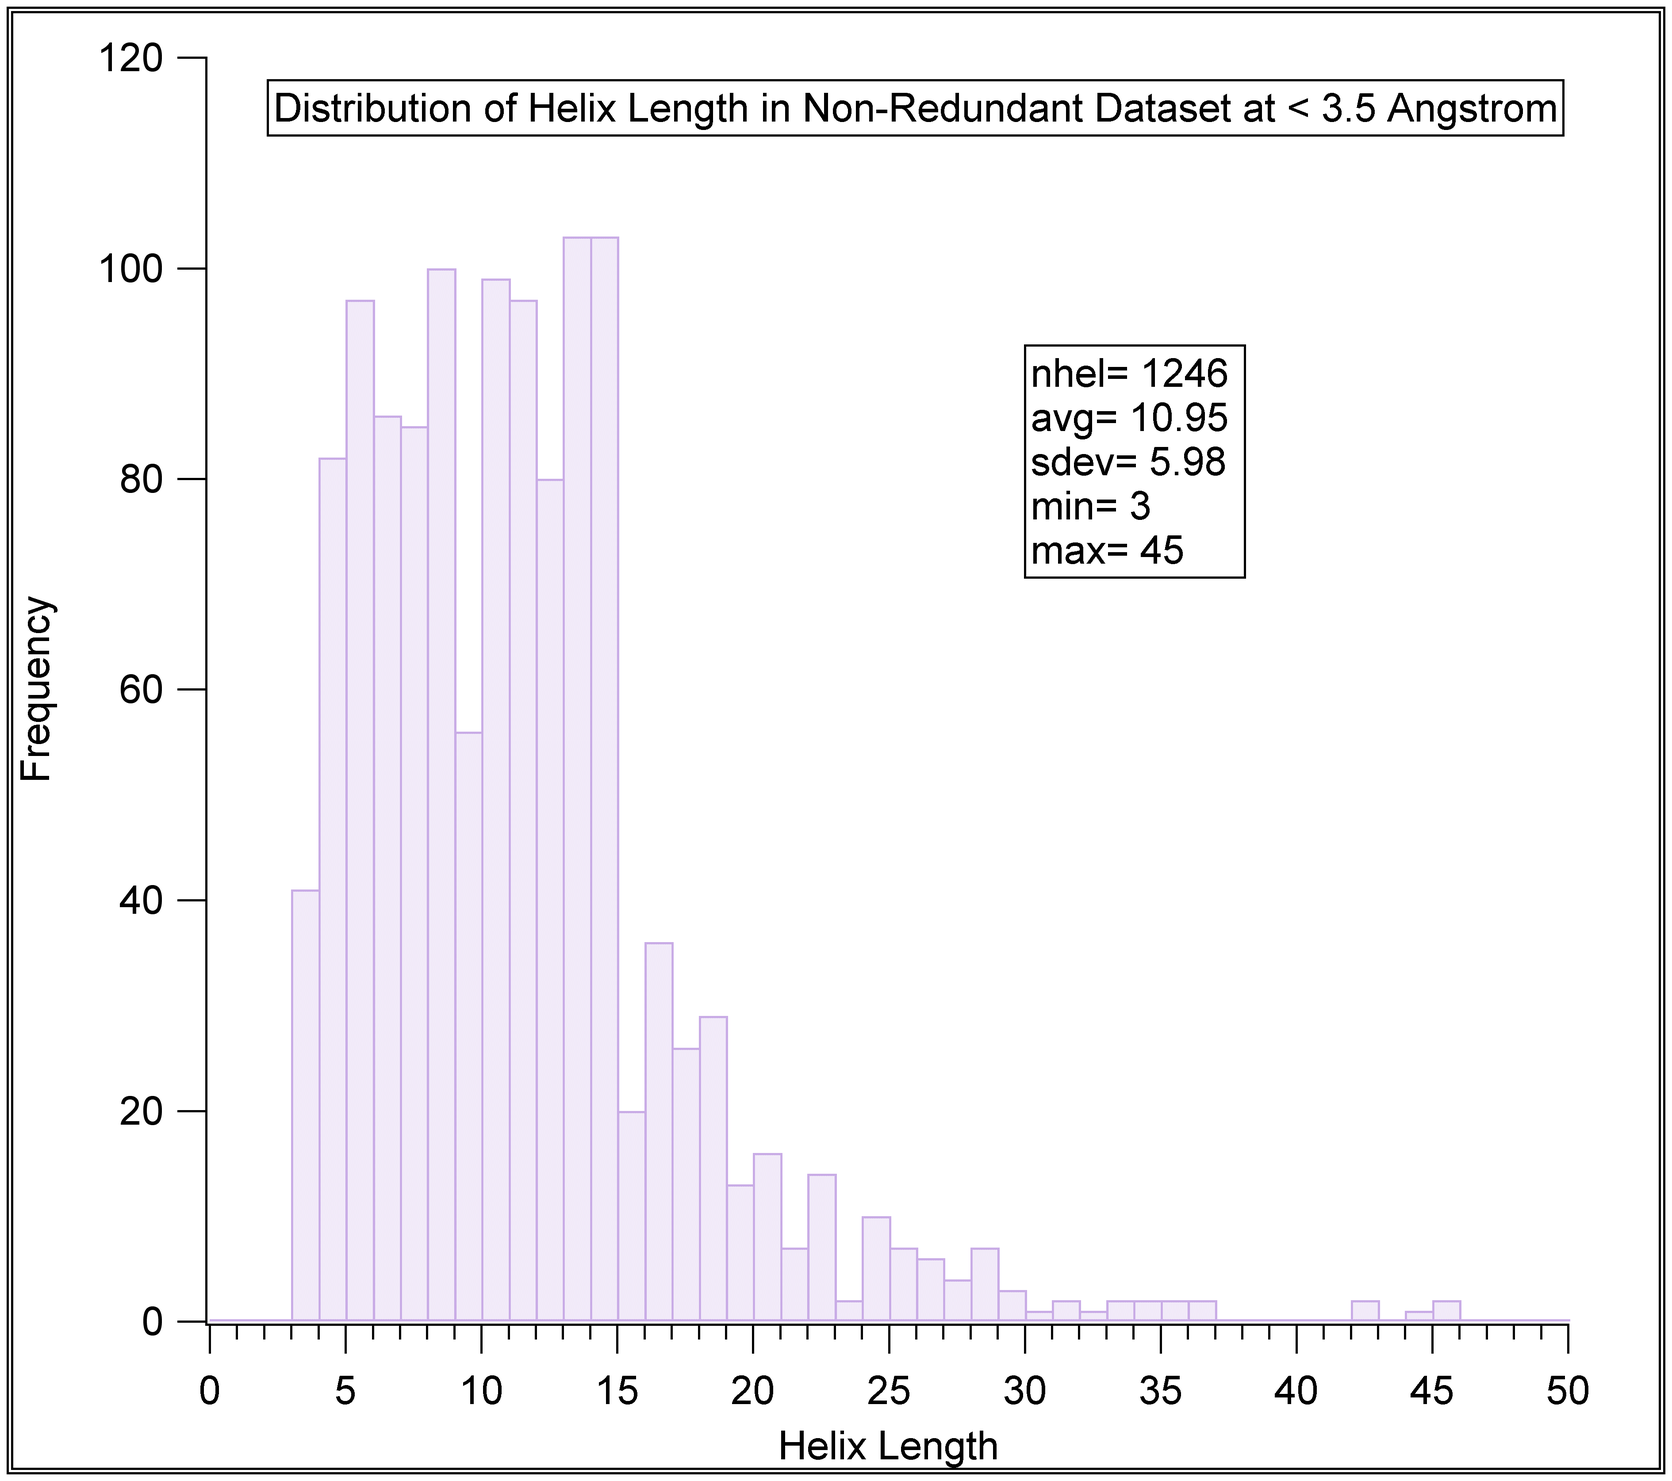
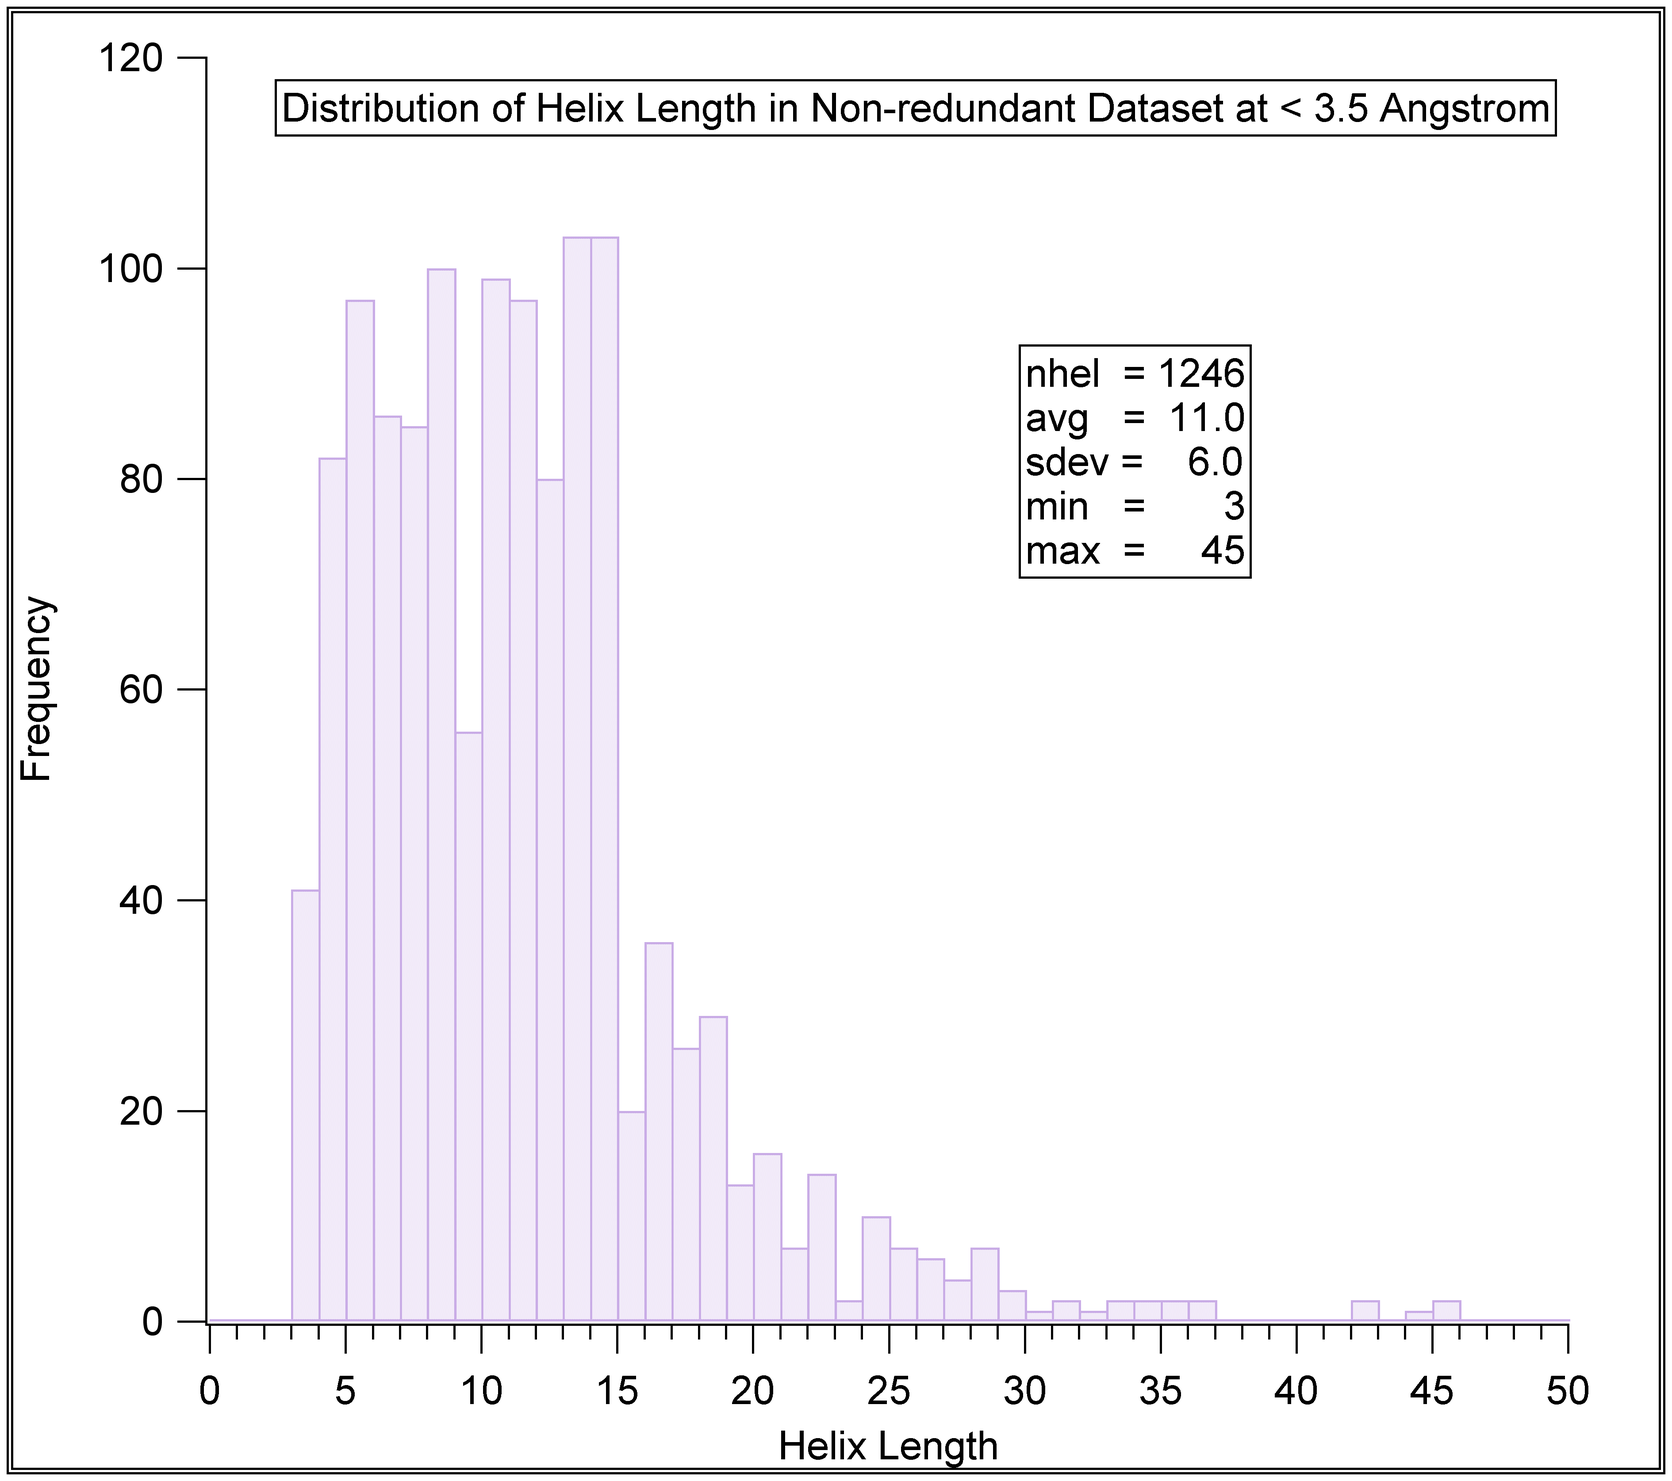
I think chapter 3 is all done. Rewritting the article was aboslutely boring, and the most challenging chapter in the thesis by far.

Changed region(s): [[0.1561, 0.0621, 0.9365, 0.0931], [0.5931, 0.2173, 0.7492, 0.4036]]

diff --git a/Chapter3/chapter3.tex b/Chapter3/chapter3.tex
@@ -34,12 +34,12 @@ Total & 469 & \multicolumn{1}{c|}{36} & \multicolumn{1}{c|}{30} & \multicolumn{1
 \end{tabular}
 \caption{Description  of the  types  of RNA  structures  and the  base
   content of  each group in  the non-redundant dataset of  RNA crystal
-  structures with resolution better than 3.5 \AA given as a percentage
+  structures with resolution better than 3.5 \AA~ given as a percentage
   of  the total  number of  structures  per group.   The listed  bases
   comprise  the base  pairs in  helices of  three or  more base-pairs.
-  Further detail on the structures which compose the dataset including
+  Further details of the structures which compose the dataset, including
   PDB\_ID's  and NDB\_ID's  can  be obtained  online as  supplementary
-  material attached to Olson et al. \cite{olson2009} results.}
+  material attached to our recent paper \cite{olson2009}.}
 \label{tab:dbase}
 \end{center}
 \end{table}
@@ -56,16 +56,16 @@ than that  of A  and U. The  difference might  be related to  a higher
 overall  stability  of  G$\cdot$C  base-pairs  compared  to  A$\cdot$U
 base-pairs.
 
-In  Table  \ref{tab:bpcomp}  we  show  the  number  of  base-pairs  of
+In Table \ref{tab:bpcomp} we show the number of base pairs of
 different  chemical  types formed  by  unmodified  nucleotides in  our
-dataset,  it is  clear from  the  table that  G$\cdot$C and  A$\cdot$U
-base-pairs  dominate the  RNA  base-pairs formed  in helical  regions,
-making up 80\% of all the base-pairs. If we count only those that form
-canonical  WC base-pairs  (9500  G$\cdot$C, and  3069 A$\cdot$U),  the
-number corresponds to 73\% of all base-pairs in helical regions.
+dataset.  It is  clear from  the  table that  G$\cdot$C and  A$\cdot$U
+base pairs dominate the RNA base pairs formed in helical regions,
+making up 80\% of all the base pairs. If we count only those that form
+canonical WC base pairs (9500 G$\cdot$C, and 3069 A$\cdot$U), the
+number corresponds to 73\% of all base pairs in helical regions.
 
 As will  be show later (Table~\ref{tab:seven}),  a considerable number
-of the A$\cdot$U's  pairs associate in a Hoogsteen  arrangement. A few
+of the A$\cdot$U  pairs associate in a Hoogsteen  arrangement. A few
 of these examples form  U$\cdot$A$\cdot$U triplets containing a WC and
 a   Hoogsteen  \footnote{Hoogsteen   base-pairs  are   illustrated  by
   structure XXIII of the Saenger classification of base-pairs as shown
@@ -89,14 +89,14 @@ A    &      G    &      C    &      U    &      B/B$'$ \\ \hline
 \end{center}
 \end{table}
 
-\subsection{RNA Base-Pairs Classification}
+\subsection{RNA Base-pair Classification}
 We classified the RNA base  pairs in our dataset using three criteria:
 (1) the Leontis-Westhof edge classification scheme \cite{leontis1998},
 which is based on the  identities of the three major interacting edges
 for  hydrogen-bond formation  called the  WC (W),  Hoogsteen  (H), and
 Sugar  (S)  edges, (2)  the  rotational  and translational  rigid-body
 base-pairing  parameters  called,  shear,  stretch,  stagger,  buckle,
-propeller and opening,  and (3) the location of  the base-pairs within
+propeller and opening, and (3) the location of the base pairs within
 the helices,  that is, their location in  either ``intact'' covalently
 bonded   sugar-phosphate  backbones  or   within  ``quasi-continuous''
 helices  with  breaks  in   the  sugar-phosphate  backbone  and  their
@@ -104,12 +104,12 @@ positions within these kinds of helices (see below).
 
 We find  that $\sim$90\% of the base  pairs in the RNA  helices in our
 dataset  form base  pairs in  one of  seven  possible hydrogen-bonding
-types; canonical  WC G$\cdot$C and A$\cdot$U  pairs, and non-canonical
+types: canonical  WC G$\cdot$C and A$\cdot$U  pairs, and non-canonical
 G$\cdot$U  wobble,  sheared G$\cdot$A,  Hoogsteen  A$\cdot$U, WC  type
-G$\cdot$A, and  U$\cdot$U wooble base pairs.  Detailed results showing
+G$\cdot$A, and  U$\cdot$U wobble base pairs.  Detailed results showing
 how these seven major  RNA base-pairing types are classified according
 to various  schemes, and the details of  their hydrogen-bond distances
-is given in Table~\ref{tab:seven} and in Figure~\ref{fig:pairs}
+are given in Table~\ref{tab:seven} and in Figure~\ref{fig:pairs}
 
 \begin{figure}[ht]
 \centering
@@ -176,12 +176,14 @@ U$\cdot$U & Wobble & O2$\cdots$H-N3 & 2.95(0.24) & - & XVI & cis
 \caption{Seven  dominant  base-pairing  types  found  in  RNA  helical
 regions.   The  first  column   lists  the  Gutell  and  collaborators
 nomenclature \cite{lee2004}  of the base  pairs. Column two  shows the
-standard  hydrogen bonding  pattern  associated with  each base  pair.
+standard  hydrogen  bonding  pattern  and  the  average  hydrogen-bond
+distances,   in  \AAngstrom   units,  and   standard   deviations  (in
+parentheses) associated with each base pair.
 Column  three  displays a  negative  sign  if  the bases  forming  the
-base-pair oppose each other and a positive sign if they share the same
+base pair oppose each other and a positive sign if they share the same
 face \cite{lu2003}.   Column four gives the  Saenger classification as
 in Figure \ref{fig:saenger28}.   Column five lists the Leontis-Westhof
-edge    classification   obtained    trough   the    RNAVIEW   program
+edge    classification   obtained    through   the    rnaview   program
 \cite{yang2003},  and  the  last  column  gives the  total  number  of
 identified base  pairs of  each category and  the percentage  of those
 which comply exactly with the hydrogen-bonding pattern shown in column
@@ -191,20 +193,23 @@ two.}
 \end{sidewaystable}  
 
 
-\subsection{Base-Pairs in Helical Regions}
+\subsection{Base Pairs in Helical Regions}
 Our classification also includes the locations of the base pairs in helical
 regions, that is,  whether they are in the interior or  at the ends of
 ``intact'' or ``quasi-continuous'' helical
 regions.  Figure~\ref{fig:helregxin}  illustrates  the  two  types  of
 helical regions  mentioned. The ``intact'' helical region
 is depicted in Figure \ref{fig:helregxin}a.
-The ``quasi-continuous'' helical region shown in Figure \ref{fig:helregxin}b.
+The ``quasi-continuous'' helical region is shown in Figure \ref{fig:helregxin}b.
 
 \begin{figure}
 \centering
 \includegraphics[scale=0.4]{Chapter3/helcontext.png}
-\caption{(a)  Intact  and  (b)  quasi-continuous  helical  regions  in
-  RNA. Image kindly provided by Dr. Yurong Xin.}
+\caption{Schematic of (a) intact and (b) quasi-continuous helical regions in
+  RNA.   Base-pair locations  within helical  regions are  denoted by:
+  intact helix interior (H), intact helix end (H$^e$), 
+  nicked  helix  end  (H$_q^e$),  insert at  helix  interior  (H$_i$),
+  insert at helix end (H$_i^e$). Image kindly provided by Dr. Yurong Xin.}
 \label{fig:helregxin}
 \end{figure}  
 
@@ -219,7 +224,8 @@ A$\cdot$U  Hoogsteen pair,  in that,  it rarely  occurs as  an insert,
 preferring to be in nicks,  and sometimes in intact regions. A similar
 situation     happens    with     the    sheared     G$\cdot$A    pair
 (G$\cdot$A$_{\text{s}}$), which also rarely occurs as an insert and is
-mainly found in intact regions, and sometimes in nicks.  The canonical
+mainly found in  intact regions, sometimes in nicks,  and often at the
+end of intact helical stretches.  The canonical
 WC G$\cdot$C base-pair is two times more likely to occur at the end of
 helical regions than the canonical A$\cdot$U base-pair.  The
 helical context of  the G$\cdot$U wobble pair (G$\cdot$U$_{\text{w}}$)
@@ -268,103 +274,102 @@ The mean length of the helical domains in our dataset is 11 base pairs
 as   shown  in   the  histogram   of  helix   length   frequencies  in
 Figure~\ref{fig:hellength}.  The value of 11 base pairs coincides with
 the  number  of   residues  per  turn  in  a   canonical  A-RNA  fiber
-\cite{arnott1968}   which   indicates   that   the   canonical   A-RNA
-conformation  is  predominant,  and   is  most  likely  maintained  by
-canonical  WC pairs  which  constitute  73\% of  all  base pairs.   In
-accordance with Leontis  and collaborators work \cite{nasalean2009} we
-see that helices are usually  short and less frequently longer than 15
-residues. In contrast to their findings we feel it's important to note
-that  the total  number  of helices  longer  than 15  residues is  not
-negligible.
+\cite{arnott1968} which suggests that the canonical A-RNA conformation
+is  predominant, and  is most  likely maintained  by the  canonical WC
+pairs which  constitute 73\%  of all base  pairs.  In  accordance with
+Leontis and collaborators \cite{nasalean2009}, we see that helices are
+usually short and  most are less than 15 residues.  On the other hand,
+we note  that the total number  of helices longer than  15 residues is
+not negligible.
 
 \begin{figure}
 \centering
 \includegraphics[angle=0, scale=0.5]{Chapter3/heldistrib.png}
 \caption{Histogram showing the distribution  of helical regions in our
-  non-redundant   helical  dataset   composed   of  structures   whose
-  resolution  is better  than 3.5  \AA.  The  total number  of helices
-  (nhel),  the average  helix  length (avg),  it's standard  deviation
-  (sdev), and the  minimum (min) and maximum (max)  helix lenghts are
-  given in the legend.}
+non-redundant helical dataset  composed of structures whose resolution
+is  better than  3.5 \AA.   The total  number of  helices  (nhel), the
+average  helix length (avg),  the standard  deviation (sdev),  and the
+minimum  (min)  and maximum  (max)  helix  lenghts  are given  in  the
+legend. Note that the helices need not be intact in the sense that the
+sugar-phosphate  backbone   might  have  nicks,   but  base-pairs  are
+nonetheless stacked sequentially forming quasi-continuous helices.}
 \label{fig:hellength}
 \end{figure}
 
 
-\section{Deformability of Base-Pairs}
-Figure   \ref{fig:pairs}  shows   a  visual   representation   of  the
+\section{Deformability of Base-Pairs} 
+Figure   \ref{fig:pairs}  gives   a  visual   representation   of  the
 deformability of the seven most  predominant base pairs in RNA helical
-regions. The overlapping structures for each base-pair are centered in
-the middle  base triad  (see Appendix for  \ref{appendix_1a} details).
+regions.  The  overlapping structures for each  base-pair are centered
+in the middle base triad (see Appendix for \ref{appendix_1a} details).
 In  Table \ref{tab:bppar}  we have  collected the  averages  and their
-corresponding  standard deviations  for the  rigid-body  parameters of
+corresponding standard deviations for the rigid-body parameters of the
 base pairs, along with a  deformability score, which is extracted from
-the  covariance  of   the  rigid-body  parameters.  Specifically,  $V$
+the  covariance  of  the  rigid-body  parameters.   Specifically,  $V$
 \cite{olson1998} is  given by the product  of the square  roots of the
-eigenvalues  of  the  base-step  parameters covariance  matrix.   Thus
-volume   scores   correspond    to   the   accessible   conformational
-volume.   Table  \ref{tab:bppar}   also  lists   the  root-mean-square
-deviation (rmsd) of the  structures which have been superimposed using
-the middle base triad of the base pairs. The rmsd reported is the mean
-value  of  rmsd's  for  all  base pairs  in  the  predominant  groups.
-Furthermore,  this  rsmd values  are  computed  between the  cartesian
-coordinates  of  all atoms  in  a base  pair  and  the average  atomic
-cartesian coordinates of all base pairs in a group \cite{eargle2006}.
+eigenvalues of  the covariance matrix of  base-step parameters.  Thus,
+volume  scores  correspond to  the  accessible conformational  volume.
+Table \ref{tab:bppar} also lists the root-mean-square deviation (RMSD)
+of the structures  which have been superimposed using  the middle base
+triad of  the base pairs. The RMSD  reported is the mean  value of the
+RMSD's for all base pairs  in the predominant groups.  The latter RMSD
+values are computed  from the Cartesian coordinates of  all atoms in a
+base pair  and the average Cartesian  coordinates of the  atoms in the
+specified group \cite{eargle2006}.
 
-As seen  from Table \ref{tab:bppar}, the  non-canonical base-pairs are
-clearly more deformable  than the canonical WC base-pairs  in terms of
-their volume  scores and rmsd values. This  larger deformability comes
+As seen  from Table \ref{tab:bppar}, the non-canonical  base pairs are
+clearly more deformable  than the canonical WC base  pairs in terms of
+their volume  scores and RMSD values. This  larger deformability comes
 mainly  from the  in-plane parameters,  that is,  Shear,  Stretch, and
 Opening,   which  determine   the   hydrogen-bonding  patterns.    The
 out-of-plane  parameters Stagger,  Buckle, and  Propeller  are roughly
-comparable to  those of  the less deformable  WC base-pairs.  That is,
+comparable to  those of the  less deformable WC base-pairs.   That is,
 there is more deformability in the non-canonical pairs at the level of
-hydrogen-bonding  controlling parameters,  and  less at  the level  of
-planarity controlling  ones. Another  fact that confirms  this greater
+the hydrogen-bonding controlling parameters,  and less at the level of
+ones controlling  planarity. Another  fact that confirms  this greater
 variability  is  the  smaller  fraction  of  base-pairs  which  comply
-strictly to the standard hydrogen bonding pattern in non-canonical vs.
-canonical  base   pairs,  as  seen   in  the  last  column   of  Table
-\ref{tab:seven}.
+strictly to the standard hydrogen-bonding pattern in the non-canonical
+vs.   canonical  base pairs,  as  seen in  the  last  column of  Table
+\ref{tab:seven}. For  example, whereas 90 percent of  the canonical WC
+G$\cdot$C pairs comply to the binding pattern shown in column three,
+only 54 percent of the  U$\cdot$U wobble base pairs associate strictly
+with  the  standard  O2$\cdots$H-N3  and N3-  H$\cdots$O4  interacting
+pattern.
 
-For example  whereas 90  percent of the  canonical WC  G$\cdot$C which
-complies to the binding pattern shown in column three, only 54 percent
-of  the  U$\cdot$U  wobble  base  pairs associate  strictly  with  the
-standard O2$\cdots$H-N3 and N3- H$\cdots$O4 interacting pattern.
-
-What's  occurring with the  additional non-canonical  base-pairs which
-are not included  in the hydrogen-bond distance averages  is that they
-are  ``melting'', that  is,  the WC  pairs,  as defined  here, do  not
-include such melted states which  are forming fewer hydrogen bonds, or
-different  types of  heavy  atom bridges  mediated  by hydrogen.   The
-combination of  angular and translational  parameters, with respective
-units   in  degrees  and   Angstroms,  makes   the  analysis   of  the
-conformational  volume score  complicated.   Nonetheless, the  general
-trends give  a clear indication  of three main levels  of deformation.
-That  is, canonical  G$\cdot$C and  A$\cdot$U base  pairs with  a mean
-score   of    4.5   are   not   very   deformed    compared   to   the
-G$\cdot$U$_{\text{w}}$,           G$\cdot$A$_{\text{s}}$,          and
+What occurs  with the additional  non-canonical base pairs,  which are
+not included in the hydrogen-bond  distance averages, is that they are
+``melting''. That  is, the WC pairs,  as defined here,  do not include
+such  melted states,  which form  fewer hydrogen  bonds,  or different
+types  of hydrogen-mediated  heavy atom  bridges.  The  combination of
+angular and translational parameters, with respective units in degrees
+and Angstroms, complicates the  analysis of the conformational volume.
+Nonetheless, the general trends give  a clear indication of three main
+levels  of deformation.   That is,  canonical G$\cdot$C  and A$\cdot$U
+base pairs with a mean score  of 4.5 are not very deformed compared to
+the      G$\cdot$U$_{\text{w}}$,      G$\cdot$A$_{\text{s}}$,      and
 A$\cdot$U$_{\text{H}}$ pairs  with mean values  of around 25,  and the
 remaining U$\cdot$U$_{\text{w}}$  and G$\cdot$A$_{\text{WC}}$ are more
 deformable   than   any   other   pairs.    A   more   straightforward
-interpretation  of  spatial deformability  comes  from  the root  mean
-square deviation (rmsd)  values of the base pair  groups. These values
-are  computed by  reconstructing all  atom base-pair  structures using
-their base-pair parameters.  The rmsd values are then obtained from an
-all-atom  superposition  of  base-pairs  aligned  with  respect  their
-standard base-pair reference frames and then the average rmsd value is
-computed with respect to the mean structure. The rmsd values have been
-obtained  using  the  vmd  software  package  \cite{eargle2006}.   The
-deformability  of   base-pairs  as   ranked  by  their   rmsd  values,
+interpretation    of   spatial    deformability    comes   from    the
+root-mean-square deviation (RMSD) values of the base-pair groups. These values
+are  computed by  reconstructing all-atom base-pair  structures using
+their base-pair parameters.  The RMSD  values are then obtained from a
+superposition of base pairs aligned with respect to their
+standard base-pair reference frames,  followed by computation  of the
+deviation for the  atoms in each bp with respect to  those in the mean
+structure using the vmd software package \cite{eargle2006}.  The
+deformability of base-pairs, as ranked by their RMSD values --
 U$\cdot$U$_{w}$  (0.74 \AA)  > G$\cdot$A$_{WC}$  (0.54  \AA) $\approx$
 G$\cdot$A$_{s}$  (0.50  \AA) >  G$\cdot$U$_{w}$  (0.45 \AA)  $\approx$
 A$\cdot$U$_{H}$  (0.43 \AA)  > G$\cdot$C$_{WC}$  (0.38  \AA) $\approx$
-A$\cdot$U$_{WC}$ (0.36 \AA) does not  follow exactly the same trend as
-that of the conformational  volume score.  The rmsd values nonetheless
+A$\cdot$U$_{WC}$ (0.36 \AA) -- does not follow exactly the same trend as
+that of the conformational  volume score.  The RMSD values, nonetheless,
 roughly maintain  the ordering of  the three levels  of deformability,
 although from  this perspective the  G$\cdot$A$_{\text{WC}}$ base pair
 may   be   better   grouped   with  the   intermediate   deformability
 non-canonical steps.  An interesting  observation is the prominence of
-the    base-pair     with    the    greatest     deformability,    the
-U$\cdot$U$_{\text{w}}$ base-pair, is more prominent in the interior of
+the base pair with the greatest deformability, the
+U$\cdot$U$_{\text{w}}$ base-pair, which is more prominent in the interior of
 intact helical  regions, compared to  the location of  less deformable
 non-canonical pairs,  which show a  preference for nicked  or inserted
 regions in RNA helical regions.
@@ -390,8 +395,8 @@ U$\cdot$U$_{\text{w}}$  &  0.00 (0.64) &  1.52 (0.40) & -0.29 (0.41) &  7.8 (10.
 \end{tabular}
 \caption{Mean  values and  standard deviations  of the  six rigid-body
   base-pair parameters,  the conformational accessible  volumes scores
-  of each  pair \cite{olson1998},  and the root-mean  square deviations
-  (rmsd)  of base-pairs superimposed  in the  middle base  triad (MBT)
+  of each  pair \cite{olson1998},  and the root-mean-square deviations
+  (RMSD) of base pairs superimposed in the middle base triad (MBT)
   (see Appendix \ref{appendix_1a}) in RNA helical regions.}
 \label{tab:bppar}
 \end{center}
